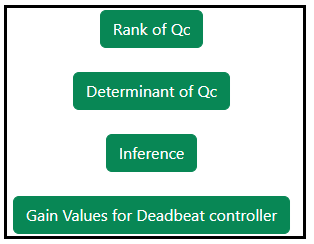
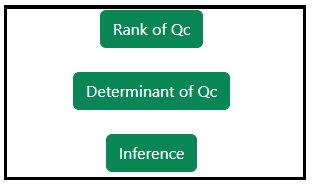
comit10

diff --git a/experiment/simulation/index.html b/experiment/simulation/index.html
@@ -119,7 +119,7 @@
 
             </div><!--First col under 2nd row end-->
             <div class="col-md-6"><!--2nd col under 2nd row start-->
-                <p class="h1"> <b> Simulation </b> </p>
+                <p class="h1"> <b> Simulation</b> </p>
             </div><!--2nd col under 2nd row end-->
             <div class="col-md-3"><!--3rd col under 2nd row start-->
 
@@ -145,18 +145,19 @@
 					<!--  <li> Click on ' Enter the pole Location' button to enter desired pole values. </li><br/> 
 					 
 					 <li> Enter the desired negative pole values. </li><br/> -->
+					 <li> Click on 'Check for Controllabilty' button to get check the controllability of the system.</li></br>
+					 
+					 <li> Click on the 'Rank' or 'Determinant'  or "inference' buttons to get the the Controllability test information. </li><br/>
 					 
 					 <li> Clicking on 'Design' dropdown-menu to select the type of the design.</li><br/>
-
-					 <li> Select the desired option for the required type of design. </li><br/> 
 					 
 					 <li> Click on the 'Run' button to run the selected design. </li><br/>
 					 
-					 <li> Click on the 'Rank' or 'Determinant'  or "inference' or 'Gain Values' buttons to get the controllability test information and state feedback gain values for the Deadbeat control. </li><br/>
+					 <li> Click on ' Enter the pole Location' button to enter the desired pole values for state feedback method. </li><br/>
 					 
-					 
-					 
-					 					 
+					 <li> Click on ' Desing' button to get the gain values for the state feedback method. </li><br/>
+
+					 					 					 
 					 <li> Click on 'Clear' button to enter the new values of quantities.</li><br/>
 					  
 					 

diff --git a/experiment/procedure.md b/experiment/procedure.md
@@ -14,44 +14,74 @@
 2. Click on 'State Space Model' button to get the continuous state space form of the system.
 
 <div align="center">
-<img class="img-fluid"  src="./images/2.png" alt="">          
+<img class="img-fluid"  src="./images/2.png" alt="">           
+</div>
 
+<div align="center">
 <b>Fig. 2. Button to get the state Space form of the system</b>							  
 </div>
-        
-3. Click on 'Discrete State Space Model' button to get the discrete state space form of the system. 
+
+3. Click on 'Discrete State Space Model' button to get the discrete state space form of the system.
 
 <div align="center">
 <img class="img-fluid"  src="./images/4.png" alt="">           
-
-<b>Fig. 3. Button to get the discrete state Space form of the system</b>						  
 </div>
-
-4. Click on 'Design' dropdown button and select the desired option for the design. 
 
 <div align="center">
-<img class="img-fluid"  src="./images/5.png" alt="">
-
-<b>Fig. 4. Dropdown button for selecting the required design option</b>						  
+<b>Fig. 3. Button to get the discrete state Space form of the system</b>							  
 </div>
 
-5. Click on the 'Run' button to run the selected design. 
+4. Click on 'Check for Controllabilty' button to get check the controllability of the system.
 
 <div align="center">
-<img class="img-fluid"  src="./images/7.png" alt="">
-
-<b>Fig. 5. Run button to calculate the selected design</b>						  
+<img class="img-fluid"  src="./images/4_1.png" alt="">          
 </div>
 
-6. Click on the 'Rank' or 'Determinant'  or "inference' buttons to get the the Controllability test information and state feedback gain values for the Deadbeat control. 
+<div align="center">
+<b>Fig. 4. Button to check the controllability of the system </b>							  
+</div>
+
+5. Click on the 'Rank' or 'Determinant'  or "inference' buttons to get the the Controllability test. 
 
 <div align="center">
 <img class="img-fluid"  src="./images/Qc.png" alt="">
 
-<b>Fig. 6. Button to get Rank, determinant, inference of the Controllability test and state feedback gain values for the Deadbeat control </b>						  
+<b>Fig. 5. Button to get Rank, determinant, inference of the Controllability test </b>						  
 </div>
 
-7. Click on 'Clear' button to enter the new parameter values of the system.
+6. Click on 'Design' dropdown button and select the desired option for the design. 
+
+<div align="center">
+<img class="img-fluid"  src="./images/5.png" alt="">
+
+<b>Fig. 6. Dropdown button for selecting the required design option </b>						  
+</div>
+
+7. Click on the 'Run' button to run the selected design. 
+
+<div align="center">
+<img class="img-fluid"  src="./images/7.png" alt="">
+
+<b>Fig. 7. Run button to calculate the selected design </b>						  
+</div>
+
+8. Click on ' Enter the pole Location' button to enter the desired pole values for state feedback method. 
+
+<div align="center">
+<img class="img-fluid"  src="./images/4_2.png" alt="">
+
+<b>Fig. 8. Button to enter the desired pole values </b>						  
+</div>
+
+9. Click on ' Desing' button to get the gain values for the state feedback method. 
+
+<div align="center">
+<img class="img-fluid"  src="./images/8.png" alt="">
+
+<b>Fig. 9. Button to design gain values </b>						  
+</div>
+
+10. Click on 'Clear' button to enter the new parameter values of the system. 
 
 
 <script id="MathJax-script" async src="https://cdn.jsdelivr.net/npm/mathjax@3/es5/tex-mml-chtml.js"></script>
